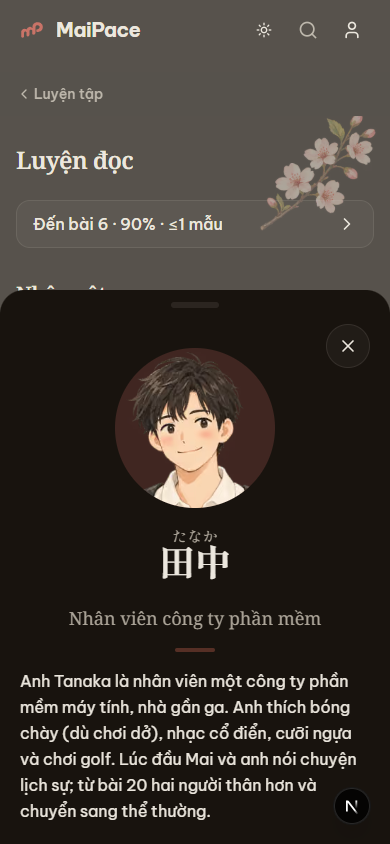
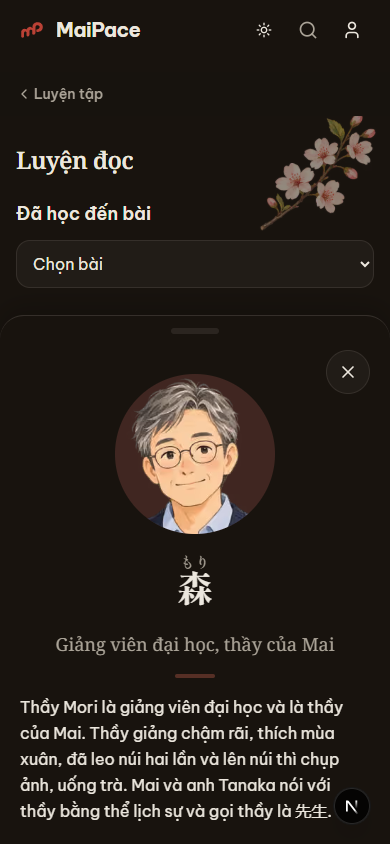
fix(reading): sheet nhân vật không phủ nền; tên người không phóng khi hover
Theo góp ý người dùng: lớp phủ che trang phía sau không cần thiết cho một hồ sơ ngắn, nên sheet
làm như sheet tra từ (viền trên, bóng, chạm ngoài thì đóng). Tên vai là nhãn, không phải chữ để
tra, nên tắt hiệu ứng phóng furigana ở mọi chỗ hiện tên vai.

diff --git a/web/src/components/dialogue/RolePlay.tsx b/web/src/components/dialogue/RolePlay.tsx
@@ -126,7 +126,7 @@ export function RolePlay({ dialogue, lessonNum }: { dialogue: Dialogue; lessonNu
         </div>
         {state.phase === 'session' && (
           <h1 className="text-center text-sm text-muted-foreground">
-            {dialogue.title.vi} · vai <Furigana text={role.name} />
+            {dialogue.title.vi} · vai <Furigana text={role.name} zoomable={false} />
           </h1>
         )}
       </header>
@@ -168,7 +168,7 @@ export function RolePlay({ dialogue, lessonNum }: { dialogue: Dialogue; lessonNu
                     <ToggleGroupItem key={item.id} value={item.id} className={cn('h-auto min-h-20 w-full justify-start gap-3 whitespace-normal rounded-xl p-4 md:relative md:min-h-48 md:flex-col md:justify-center md:gap-4', state.roleId === item.id && 'border-primary')}>
                       <RoleAvatar role={item} size={40} className="md:size-24" />
                       <span className="flex min-w-0 flex-1 flex-col items-start gap-1 text-left md:flex-none md:items-center md:text-center md:text-xl">
-                        <Furigana text={item.name} />
+                        <Furigana text={item.name} zoomable={false} />
                         <span className="text-sm text-muted-foreground">{dialogue.lines.filter((line) => line.speaker === item.id).length} câu</span>
                       </span>
                       {state.roleId === item.id && <Check aria-hidden="true" className="size-5 shrink-0 text-primary md:absolute md:right-3 md:top-3" />}
@@ -197,7 +197,7 @@ export function RolePlay({ dialogue, lessonNum }: { dialogue: Dialogue; lessonNu
                     <li key={index} data-line-index={index} className={cn('flex w-[90%] min-w-0 flex-col gap-2', isOwn && 'ml-auto items-end')}>
                       <div className={cn('flex items-center gap-2', isOwn && 'flex-row-reverse')}>
                         <RoleAvatar role={speaker} size={32} />
-                        <Furigana text={speaker.name} className="text-sm font-medium" />
+                        <Furigana text={speaker.name} zoomable={false} className="text-sm font-medium" />
                       </div>
                       <div className="w-full min-w-0 rounded-2xl border border-dashed border-primary bg-background p-4 sm:p-5">
                         <p className="mb-3 text-sm font-semibold text-primary">Lượt của bạn</p>
@@ -233,7 +233,7 @@ export function RolePlay({ dialogue, lessonNum }: { dialogue: Dialogue; lessonNu
         <div className="scrollbar-none flex min-h-0 flex-1 flex-col items-center justify-center gap-6 overflow-y-auto py-8 text-center">
           <RoleAvatar role={role} size={48} />
           <h1 className="font-serif text-3xl font-semibold">Xong</h1>
-          <p className="text-sm text-muted-foreground">Vai <Furigana text={role.name} /> · {view.total} câu</p>
+          <p className="text-sm text-muted-foreground">Vai <Furigana text={role.name} zoomable={false} /> · {view.total} câu</p>
           <div className="mt-2 flex w-full max-w-sm flex-col gap-3">
             <Button type="button" size="quiz" onClick={changeRole}>Đổi vai</Button>
             <Button type="button" size="quiz" variant="outline" onClick={exit}>Về bài</Button>

diff --git a/web/src/components/dialogue/CharacterSheet.tsx b/web/src/components/dialogue/CharacterSheet.tsx
@@ -18,10 +18,10 @@ export function CharacterSheet({ id, onClose }: { id: string | null; onClose: ()
   if (!shown || !character) return null;
 
   return (
-    <DialogPrimitive.Root open={id !== null} onOpenChange={(open) => { if (!open) onClose(); }}>
+    // Không phủ, không khóa cuộn: trang phía sau vẫn nhìn rõ; chạm ra ngoài thì đóng.
+    <DialogPrimitive.Root open={id !== null} modal={false} onOpenChange={(open) => { if (!open) onClose(); }}>
       <DialogPrimitive.Portal>
-        <DialogPrimitive.Backdrop className="fixed inset-0 z-50 bg-foreground/30 motion-safe:duration-150 motion-safe:data-open:animate-in motion-safe:data-open:fade-in-0 motion-safe:data-closed:animate-out motion-safe:data-closed:fade-out-0" />
-        <DialogPrimitive.Popup className="fixed inset-x-0 bottom-0 z-50 mx-auto flex max-h-[90dvh] w-full max-w-[760px] flex-col items-center gap-4 overflow-y-auto rounded-t-3xl bg-background p-5 pb-[max(1.25rem,env(safe-area-inset-bottom))] outline-none motion-safe:duration-250 motion-safe:data-open:animate-in motion-safe:data-open:slide-in-from-bottom motion-safe:data-closed:animate-out motion-safe:data-closed:slide-out-to-bottom sm:p-6">
+        <DialogPrimitive.Popup className="fixed inset-x-0 bottom-0 z-50 mx-auto flex max-h-[90dvh] w-full max-w-[760px] flex-col items-center gap-4 overflow-y-auto rounded-t-3xl border-t border-border bg-background shadow-[0_-8px_24px_rgb(0_0_0/0.18)] p-5 pb-[max(1.25rem,env(safe-area-inset-bottom))] outline-none motion-safe:duration-250 motion-safe:data-open:animate-in motion-safe:data-open:slide-in-from-bottom motion-safe:data-closed:animate-out motion-safe:data-closed:slide-out-to-bottom sm:p-6">
           <span aria-hidden="true" className="-mt-2 h-1.5 w-12 rounded-full bg-muted" />
           <DialogPrimitive.Close
             aria-label="Đóng"
@@ -31,7 +31,7 @@ export function CharacterSheet({ id, onClose }: { id: string | null; onClose: ()
           </DialogPrimitive.Close>
           <RoleAvatar role={{ id: shown, name: character.name }} size={48} sizes="(min-width: 768px) 330px, 275px" className="mt-2 size-40 md:size-48" />
           <DialogPrimitive.Title className="text-center" aria-label={stripFurigana(character.name)}>
-            <Furigana text={character.name} className="jp-display text-4xl font-semibold" />
+            <Furigana text={character.name} zoomable={false} className="jp-display text-4xl font-semibold" />
           </DialogPrimitive.Title>
           <p className="-mt-2 text-center font-serif text-lg text-muted-foreground">{character.roleVi}</p>
           <span aria-hidden="true" className="h-1 w-10 rounded-full bg-primary/30" />

diff --git a/web/src/components/reading/ReadingBody.tsx b/web/src/components/reading/ReadingBody.tsx
@@ -72,7 +72,7 @@ export function DialogueView(props: ReadingBodyProps) {
           <li key={sentence.id} id={sentenceDomId(sentence.id)} className="grid grid-cols-[3rem_minmax(0,1fr)] items-start gap-x-3 md:grid-cols-[3.5rem_minmax(0,1fr)]">
             <ProfileAvatar role={role} size={48} className="mt-5" />
             <div className="min-w-0">
-              <Furigana text={role.name} className="text-sm font-medium text-muted-foreground" />
+              <Furigana text={role.name} zoomable={false} className="text-sm font-medium text-muted-foreground" />
               <div
                 className={cn(
                   'rounded-2xl rounded-tl-md border px-4 py-2 md:px-6 md:py-3',

diff --git a/web/src/components/reading/ReadingList.tsx b/web/src/components/reading/ReadingList.tsx
@@ -170,7 +170,7 @@ export function ReadingList() {
                 className="flex min-h-11 flex-col items-center gap-1 rounded-2xl outline-none focus-visible:ring-3 focus-visible:ring-ring"
               >
                 <RoleAvatar role={{ id, name }} size={48} sizes="(min-width: 768px) 140px, 110px" className="size-16 md:size-20" />
-                <Furigana text={name} className="text-sm font-medium text-muted-foreground" />
+                <Furigana text={name} zoomable={false} className="text-sm font-medium text-muted-foreground" />
               </button>
             </li>
           );

diff --git a/web/src/components/dialogue/DialogueBubble.tsx b/web/src/components/dialogue/DialogueBubble.tsx
@@ -40,7 +40,7 @@ export function DialogueBubble({
     <div id={id} className={cn('flex min-w-0 flex-col gap-1', right ? 'items-end' : 'items-start', className)}>
       <div className={cn('flex items-center gap-2', right && 'flex-row-reverse')}>
         <ProfileAvatar role={role} size={32} />
-        <Furigana text={role.name} className="text-sm font-medium text-muted-foreground" />
+        <Furigana text={role.name} zoomable={false} className="text-sm font-medium text-muted-foreground" />
       </div>
       <div
         className={cn(

diff --git a/DESIGN.md b/DESIGN.md
@@ -190,7 +190,7 @@ hover chỉ cho chuột (`(hover: hover) and (pointer: fine)`), chỉ `transform
 | `/luyen-tap/doc-hieu/phien` — đoạn văn | **v3** — đã code, chờ G2. Cùng bố cục phiên như hội thoại. Lệch mockup có chủ ý: văn bản liền, không hàng đánh số (theo góp ý người dùng) | `design/reading/mockup-v2-doan-van-{phien-light,phien-dark,tra-tu}.png` |
 | Kết quả Luyện đọc (trong `/luyen-tap/doc-hieu/phien`) | **v3** — đã code, chờ G2 | `design/reading/mockup-v2-{hoi-thoai,doan-van}-ket-qua.png` |
 | Sheet Cài đặt đọc (cỡ chữ, nền, font) | **v3** — đã code, chờ G2. Icon mở sheet là `ALargeSmall` | `design/reading/mockup-v2-cai-dat-doc.png` |
-| Sheet hồ sơ nhân vật (chạm avatar nhân vật `main` trong hội thoại bài học/Luyện đọc; dải "Nhân vật" ở danh sách Luyện đọc) | **v3** — đã code, chờ G2. Tên dùng `.jp-display` (Mincho); đoạn giới thiệu chữ không chân, phân cách gạch ngắn | `design/reading/mockup-v1-nhan-vat-{sheet,hub,hub-sheet}.png` (kiểu chữ theo `sheet`) |
+| Sheet hồ sơ nhân vật (chạm avatar nhân vật `main` trong hội thoại bài học/Luyện đọc; dải "Nhân vật" ở danh sách Luyện đọc) | **v3** — đã code, chờ G2. Không phủ nền (như sheet tra từ: viền trên + bóng), chạm ngoài thì đóng. Tên dùng `.jp-display` (Mincho), tên người không phóng khi hover (`zoomable={false}`); đoạn giới thiệu chữ không chân, phân cách gạch ngắn | `design/reading/mockup-v1-nhan-vat-{sheet,hub,hub-sheet}.png` (kiểu chữ theo `sheet`) |
 | Tra cứu `/hoc/tra-cuu` và trang con | **v3** — G2 đã duyệt | `design/tra-cuu/` |
 | `/ca-nhan`, `/ca-nhan/thong-ke` | **v3** — G2 đã duyệt | `design/ca-nhan/` |
 | `/cai-dat`, `/cai-dat/audio` | **v3** — G2 đã duyệt | `design/cai-dat/` |
